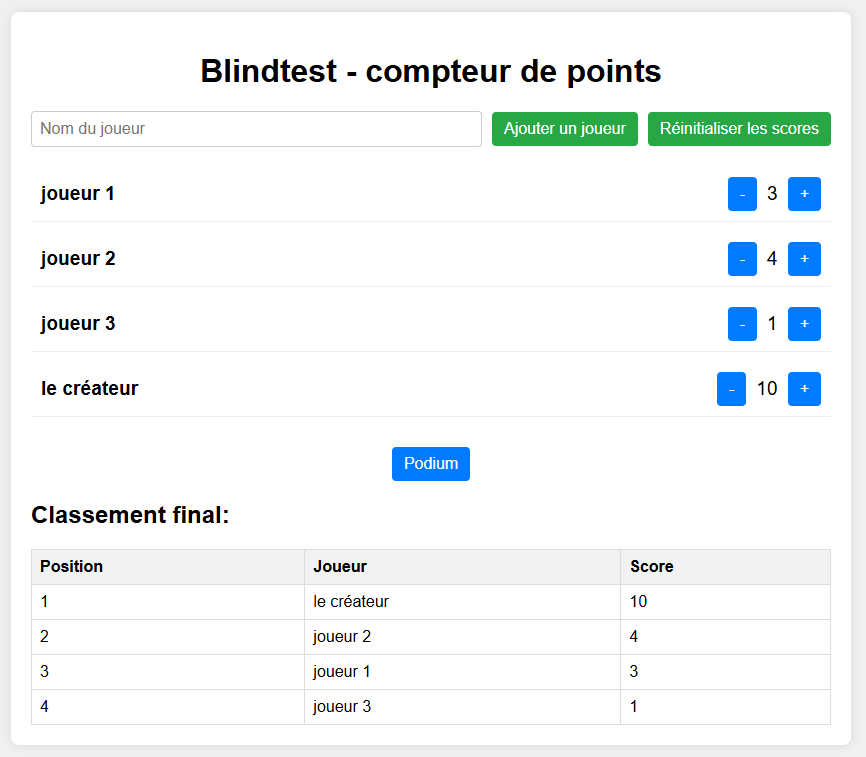
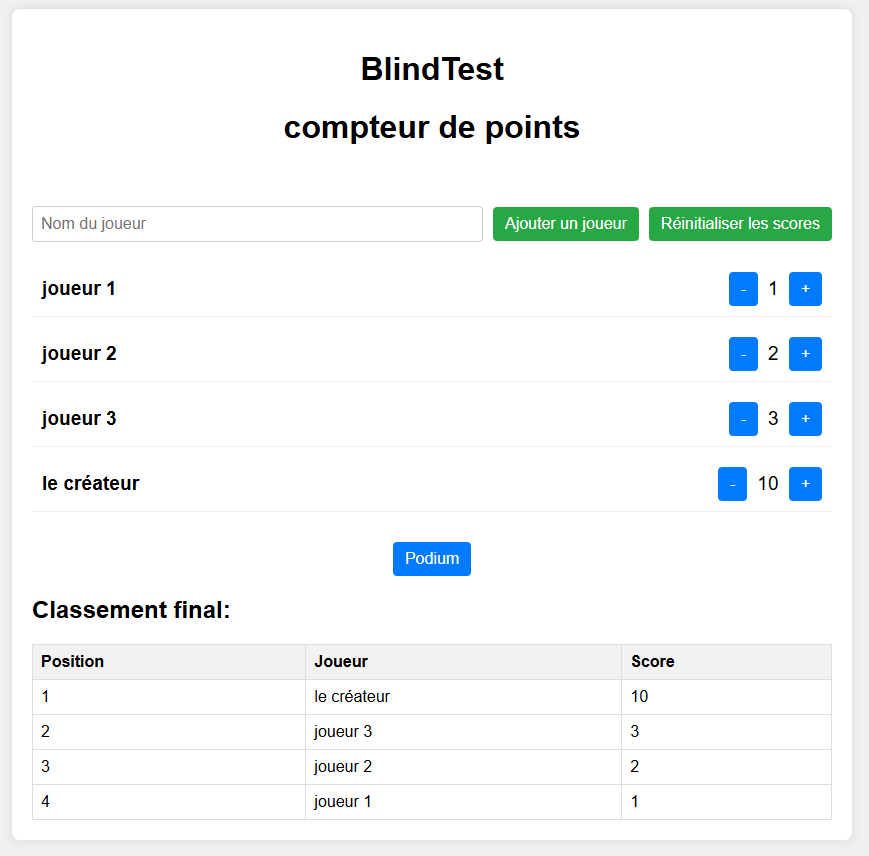
app image

diff --git a/src/App.jsx b/src/App.jsx
@@ -61,7 +61,9 @@ function App() {
 
   return (
     <div>
-      <h1 style={{ textAlign: 'center' }}>Blindtest - compteur de points</h1>
+      <h1 style={{ textAlign: 'center' }}>BlindTest</h1>
+      <h1 style={{ textAlign: 'center' }}>compteur de points</h1>
+      <br></br>
       <div className="add-player" style={{ display: 'flex', justifyContent: 'space-between', alignItems: 'center', marginBottom: '20px' }}>
         <input
           type="text"
